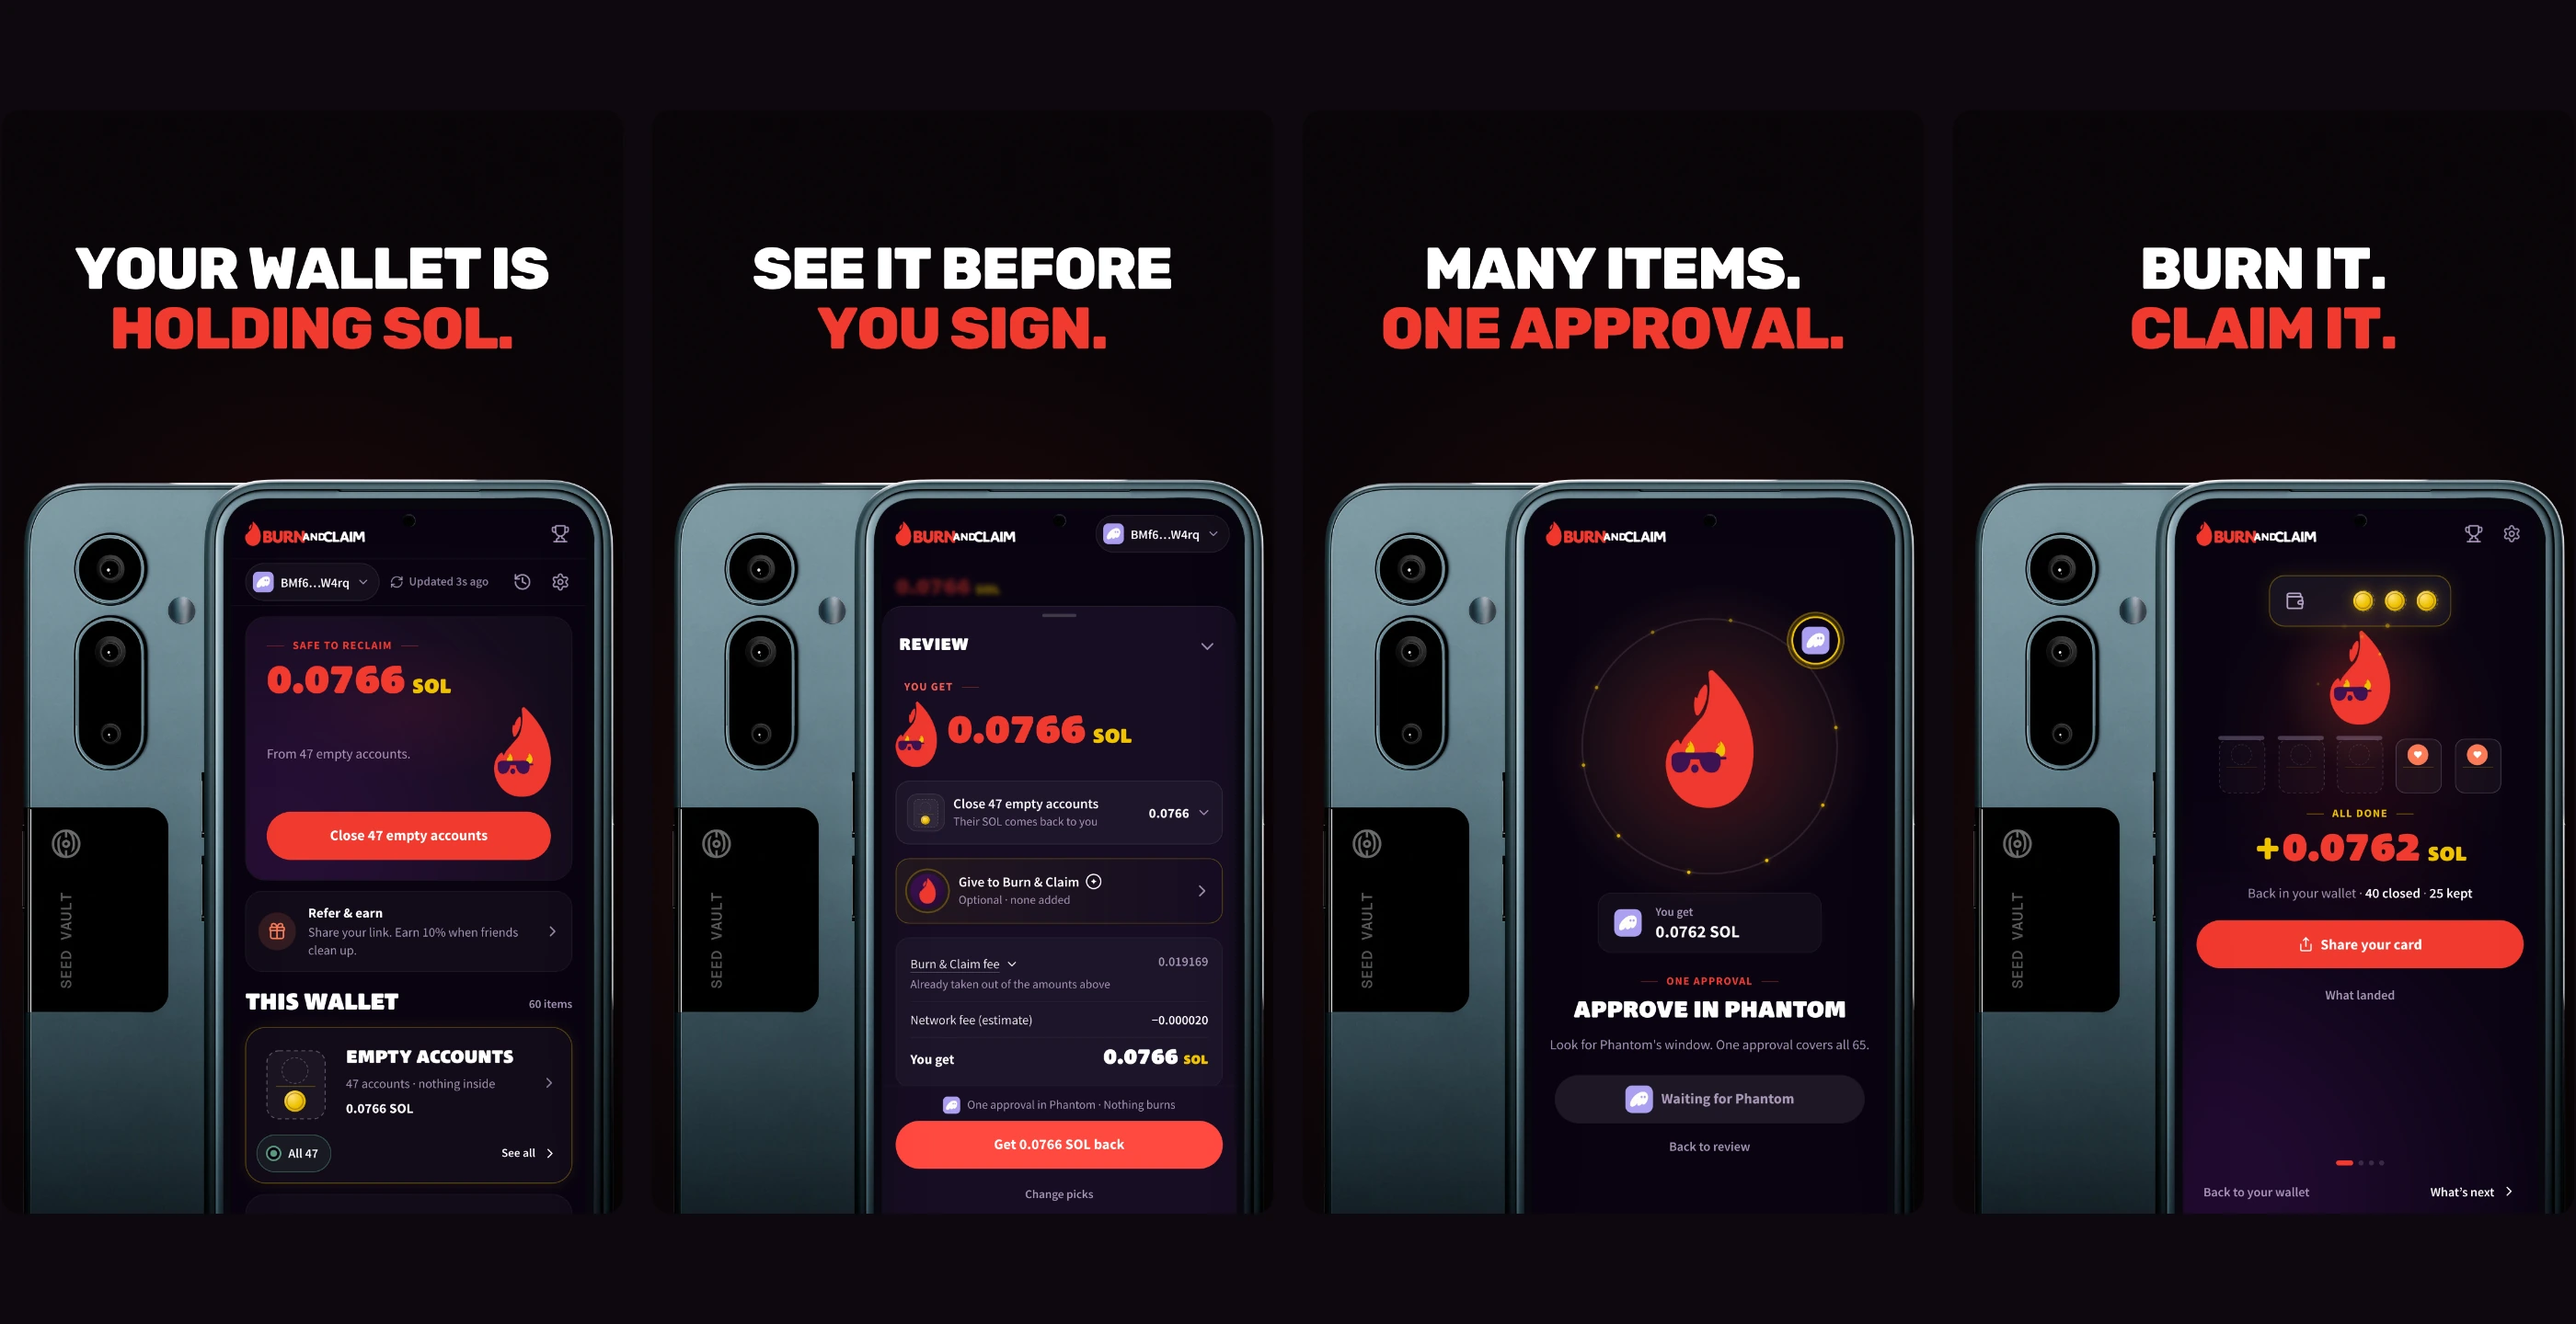
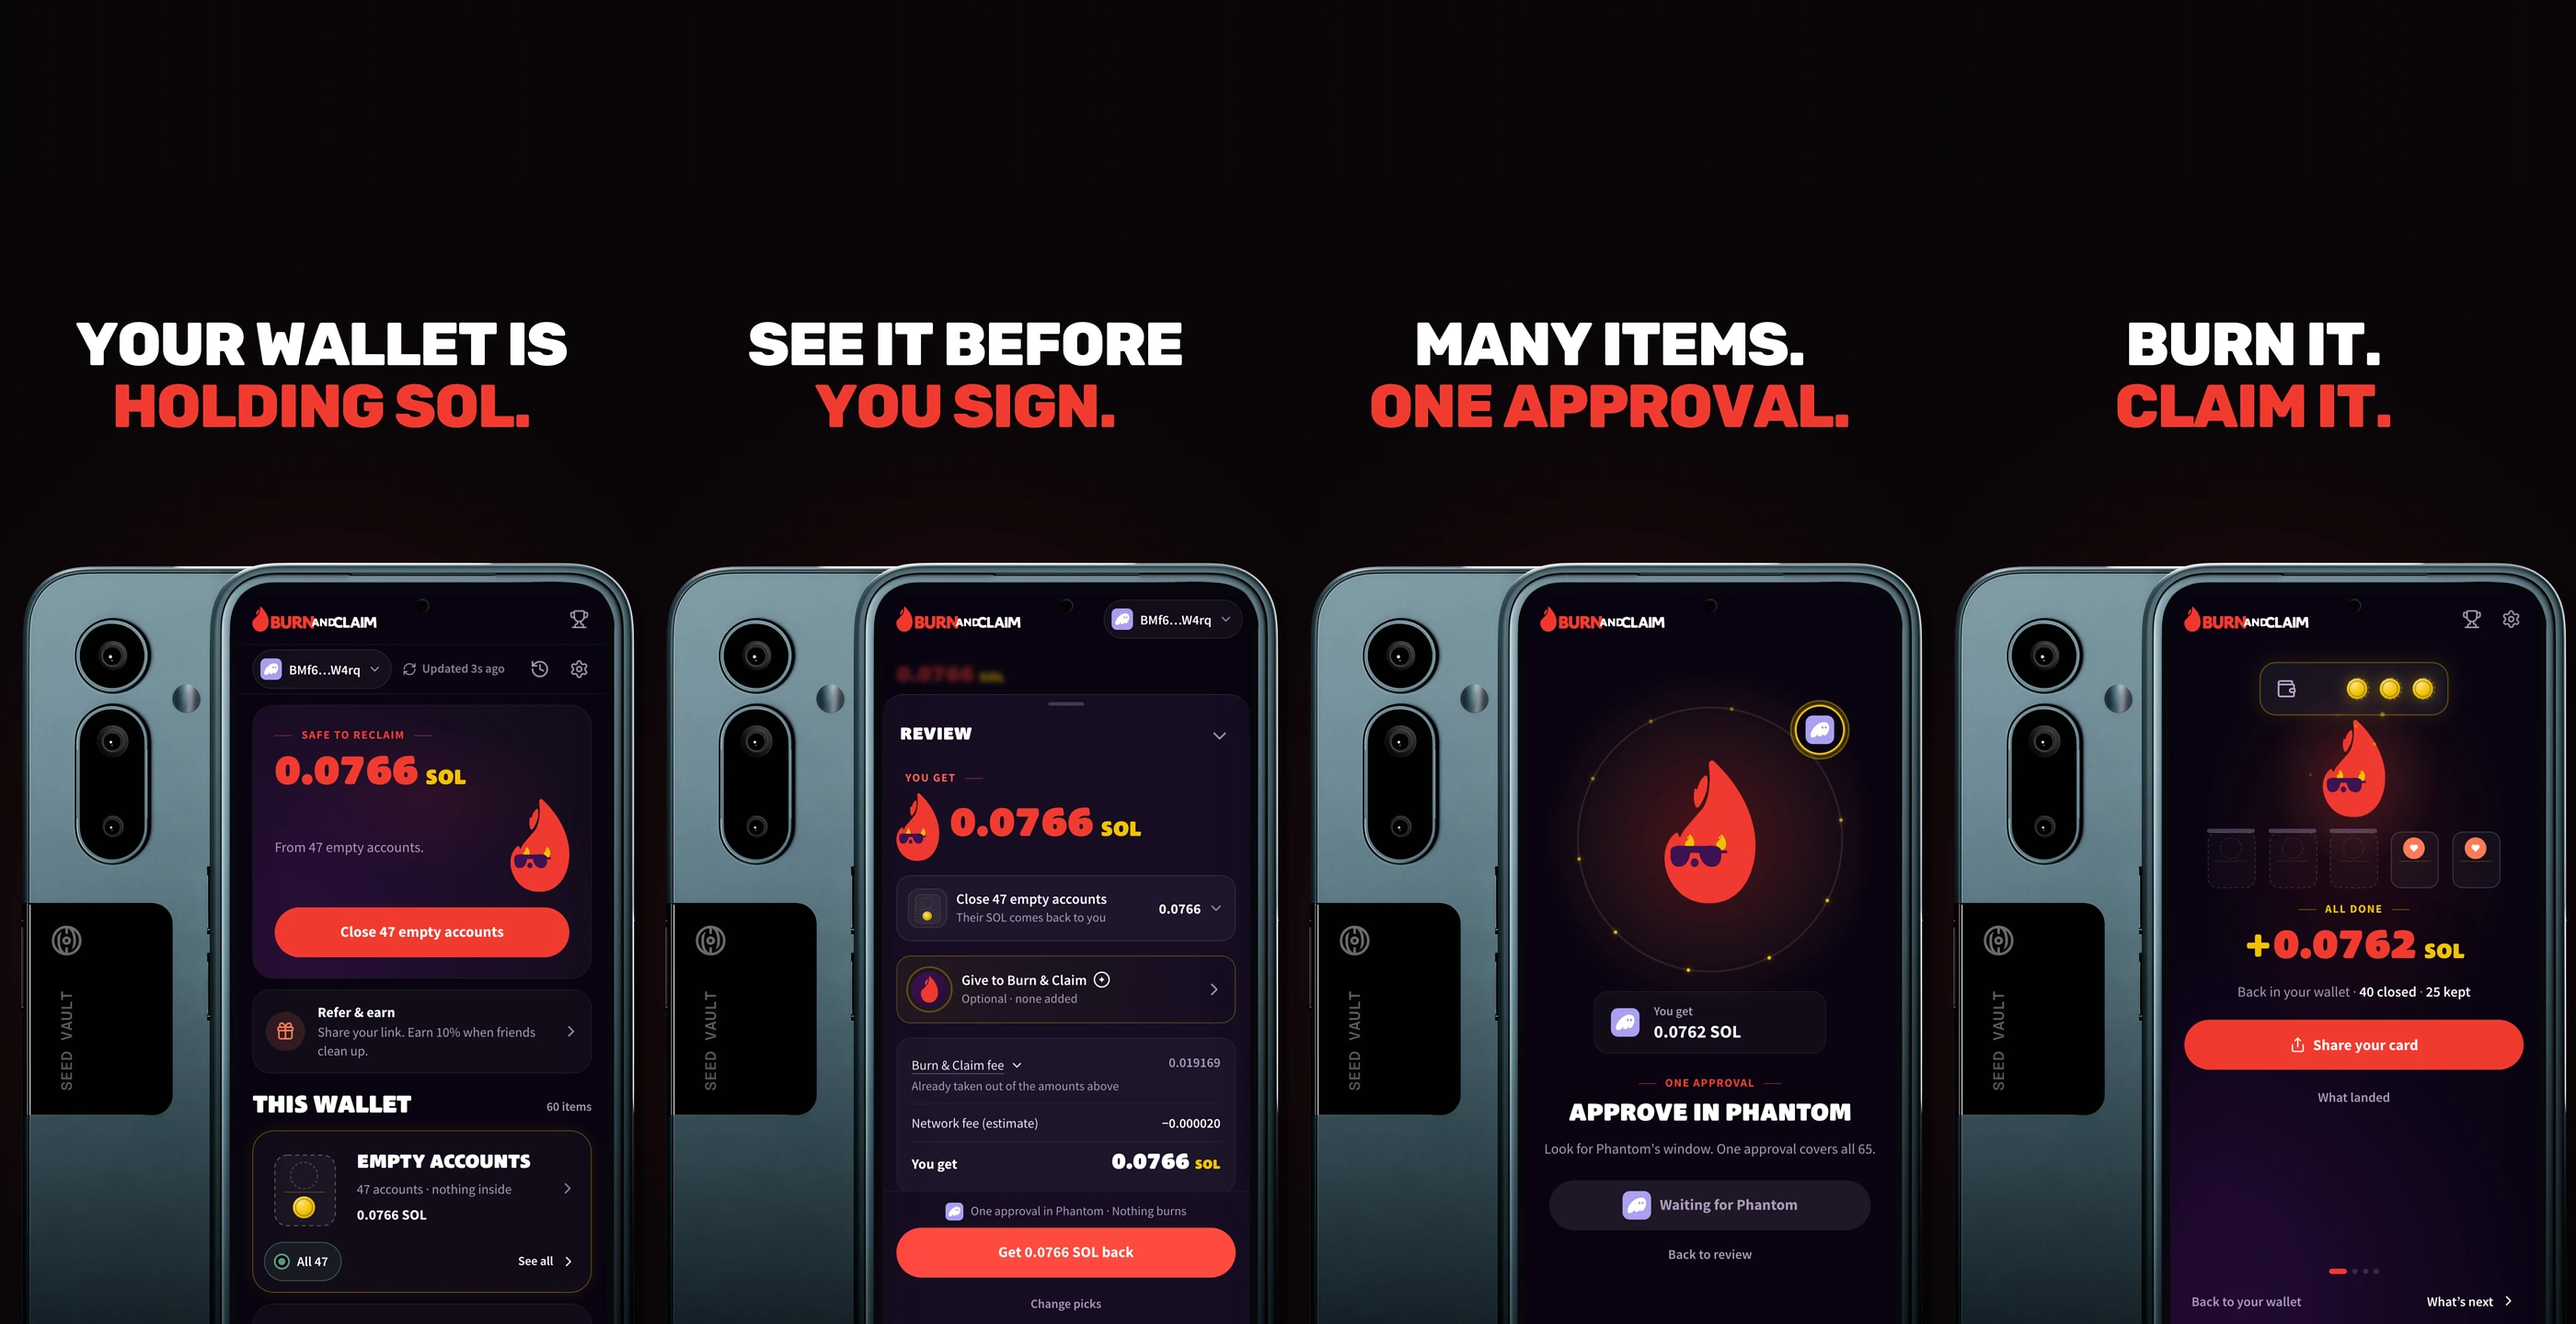
Burn & Claim: the process moves to Burn That Sh*t, a rebuilt store panel
Removes the three process panels (bc-proceso-tomas, -realismo, -capas and
their -en versions), now in the Burn That Sh*t case, along with the
process paragraph and the AI campaign photography scope item. The third
paragraph closes with a sentence pointing to the campaign, and the
photos line in shipped points there too. Replaces bc-tienda.webp (same
name and size, each screenshot in its own full-height column). Order:
2, 4, Crouch, 5, Flame Guy, Hands, before/after, v3, trio, Lunge,
Seated, store, 16.mp4, in ES and EN.

Changed region(s): [[0.0, 0.1875, 1.0, 1.0], [0.6214, 0.9062, 0.6836, 0.9688]]

diff --git a/src/projects.tsx b/src/projects.tsx
@@ -221,8 +221,8 @@ const burnClaimProject: Project = {
   year: "2024 - 2026",
   role: "Identidad de producto, personaje y diseño de la app",
   roleEn: "Product identity, character and app design",
-  scope: ["Identidad de submarca", "Ilustración", "Personaje", "Arquitectura de información", "Diseño de interfaz", "Onboarding", "Ficha de tienda", "Fotos de campaña con IA", "Handoff a desarrollo"],
-  scopeEn: ["Sub-brand identity", "Illustration", "Character", "Information architecture", "Interface design", "Onboarding", "Store listing", "AI campaign photography", "Developer handoff"],
+  scope: ["Identidad de submarca", "Ilustración", "Personaje", "Arquitectura de información", "Diseño de interfaz", "Onboarding", "Ficha de tienda", "Handoff a desarrollo"],
+  scopeEn: ["Sub-brand identity", "Illustration", "Character", "Information architecture", "Interface design", "Onboarding", "Store listing", "Developer handoff"],
   gridLabel: "Diseño de interfaz · Arquitectura de información",
   gridLabelEn: "Interface design · Information architecture",
   brief: "Burn & Claim recupera el rent de cuentas y NFTs que ya no se usan. Es una operación irreversible en cadena, así que la app tenía que verse confiable antes de que alguien conectara su wallet. El reto era doble: que se sintiera segura sin volverse solemne, y que se leyera como parte de Aerosol sin dejar de tener carácter propio.",
@@ -236,7 +236,7 @@ const burnClaimProject: Project = {
     "Vista de wallet que ordena qué se puede reclamar y cuánto vale.",
     "Flujo de donación a los proyectos que construyen en Solana.",
     "La ficha de la v3 en la Solana dApp Store para Seeker.",
-    "Las fotos de la campaña, hechas con IA bajo mi dirección: tandas de tomas para escoger, una sola pasada de realismo y la app real montada encima.",
+    "Las fotos de la campaña «Burn That Sh*t», con la app real en el Seeker (cómo se hicieron, en ese caso).",
   ],
   shippedEn: [
     "Sub-brand identity: drop-shaped flame, character and color system.",
@@ -247,7 +247,7 @@ const burnClaimProject: Project = {
     "A wallet view that sorts what can be reclaimed and what it is worth.",
     "A donation flow routing part of what is recovered to projects building on Solana.",
     "The v3 listing on the Solana dApp Store for Seeker.",
-    "The campaign photos, made with AI under my direction: batches of takes to pick from, a single realism pass and the real app placed on top.",
+    "The photos for the “Burn That Sh*t” campaign, with the real app on the Seeker (how they were made is in that case).",
   ],
   outcome: [
     "Más de 30,500 wallets han usado Burn & Claim.",
@@ -280,14 +280,12 @@ const burnClaimProject: Project = {
   paragraphs: [
     "Burn & Claim es una app de Solana que convierte la basura de tu wallet en SOL de vuelta. Tokens muertos, NFTs olvidados y cuentas vacías que llevan años ocupando espacio se queman en un solo flujo, y el rent regresa a tu bolsillo.",
     "La marca parte de una llama con forma de gota, un guiño directo a quemar y a recuperar valor al mismo tiempo. De ahí salió un personaje con lentes de sol que le baja la solemnidad a algo que en el fondo es una operación irreversible en cadena. Rojo intenso sobre morado profundo, tipografía condensada y muy gruesa, y un sistema que se sostiene igual en el isotipo suelto, en el logo completo y en blanco y negro.",
-    "El rediseño de la app llevó ese tono al producto, y la v3 lo terminó de aterrizar. Abres y ves de una vez cuánto SOL tienes por recuperar. Antes de firmar ves exactamente lo que vuelve, y una sola aprobación en Phantom cubre todo lo que escogiste. Flame Guy, el personaje, te acompaña en cada paso: se pone las gafas cuando hay algo que quemar y celebra cuando el SOL ya está de vuelta en tu wallet. La idea siempre fue que quemar se sintiera claro, controlado y hasta divertido.",
-    "Para el relanzamiento hice las fotos de la campaña con IA, y la primera lección fue que una foto generada no se arregla, se escoge. Pasé varias rondas retocando la misma toma, un dedo por aquí, una uña por allá, y cada arreglo rompía otra cosa. Así que cambié el método. Armé cada escena con un bloque gris donde iba el teléfono y pedí tandas de tomas con el Seeker ya en la mano, usando fotos reales de cómo se agarra un teléfono como referencia. De cada tanda me quedé con una y no la volví a pedir. Después, una sola pasada de realismo: probé una versión más creativa que se veía más pulida, pero me cambiaba la uña, el marco y la zapatilla, y me quedé con la fiel. Lo que vende nunca lo generó la IA: la pantalla es la app real, puesta en perspectiva, y el logo, los titulares y el sello van encima, en capas que se actualizan solas cuando cambia la app.",
+    "El rediseño de la app llevó ese tono al producto, y la v3 lo terminó de aterrizar. Abres y ves de una vez cuánto SOL tienes por recuperar. Antes de firmar ves exactamente lo que vuelve, y una sola aprobación en Phantom cubre todo lo que escogiste. Flame Guy, el personaje, te acompaña en cada paso: se pone las gafas cuando hay algo que quemar y celebra cuando el SOL ya está de vuelta en tu wallet. La idea siempre fue que quemar se sintiera claro, controlado y hasta divertido. Para el relanzamiento, la app salió en las manos de la gente, en la campaña «Burn That Sh*t».",
   ],
   paragraphsEn: [
     "Burn & Claim is a Solana app that turns the junk in your wallet back into SOL. Dead tokens, forgotten NFTs and empty accounts that have been sitting there for years get burned in a single flow, and the rent goes back into your pocket.",
     "The brand starts from a flame shaped like a drop, a direct nod to burning and reclaiming value at the same time. That grew into a character in sunglasses that takes the solemnity out of what is, underneath, an irreversible on chain operation. Bold red over deep purple, heavy condensed type, and a system that holds up equally well as a lone symbol, as the full lockup, and in black and white.",
-    "The app redesign carried that tone into the product, and v3 finally nailed it down. You open it and see right away how much SOL you can get back. Before you sign, you see exactly what comes back, and a single Phantom approval covers everything you picked. Flame Guy, the character, walks you through every step: he puts the shades on when there's something to burn and celebrates once the SOL is back in your wallet. The whole point was always for burning to feel clear, controlled and even fun.",
-    "For the relaunch I made the campaign photos with AI, and the first lesson was that you don't fix a generated photo, you pick one. I spent several rounds retouching the same shot, a finger here, a nail there, and every fix broke something else. So I changed the method. I set up each scene with a grey block where the phone would go and asked for batches of takes with the Seeker already in hand, using real photos of how people hold a phone as reference. From each batch I kept one and stopped there. Then a single realism pass: I tried a more creative version that looked more polished, but it changed the nail, the frame and the sneaker, so I kept the faithful one. The part that sells was never generated: the screen is the real app, set in perspective, and the logo, the headlines and the stamp sit on top, in layers that update on their own when the app changes.",
+    "The app redesign carried that tone into the product, and v3 finally nailed it down. You open it and see right away how much SOL you can get back. Before you sign, you see exactly what comes back, and a single Phantom approval covers everything you picked. Flame Guy, the character, walks you through every step: he puts the shades on when there's something to burn and celebrates once the SOL is back in your wallet. The whole point was always for burning to feel clear, controlled and even fun. For the relaunch, the app went out in people's hands, in the “Burn That Sh*t” campaign.",
   ],
   images: [
     "/img/projects/burn-claim/2.webp",
@@ -299,10 +297,7 @@ const burnClaimProject: Project = {
     "/img/projects/burn-claim/bc-antes-despues.webp",
     "/img/projects/burn-claim/bc-v3.webp",
     "/img/projects/burn-claim/bc-trio-mockup.webp",
-    "/img/projects/burn-claim/bc-proceso-tomas.webp",
     "/img/projects/burn-claim/bc-campana-lunge.webp",
-    "/img/projects/burn-claim/bc-proceso-realismo.webp",
-    "/img/projects/burn-claim/bc-proceso-capas.webp",
     "/img/projects/burn-claim/bc-campana-seated.webp",
     "/img/projects/burn-claim/bc-tienda.webp",
     "/img/projects/burn-claim/16.mp4",
@@ -317,10 +312,7 @@ const burnClaimProject: Project = {
     "/img/projects/burn-claim/bc-antes-despues-en.webp",
     "/img/projects/burn-claim/bc-v3.webp",
     "/img/projects/burn-claim/bc-trio-mockup.webp",
-    "/img/projects/burn-claim/bc-proceso-tomas-en.webp",
     "/img/projects/burn-claim/bc-campana-lunge.webp",
-    "/img/projects/burn-claim/bc-proceso-realismo-en.webp",
-    "/img/projects/burn-claim/bc-proceso-capas-en.webp",
     "/img/projects/burn-claim/bc-campana-seated.webp",
     "/img/projects/burn-claim/bc-tienda.webp",
     "/img/projects/burn-claim/16.mp4",
